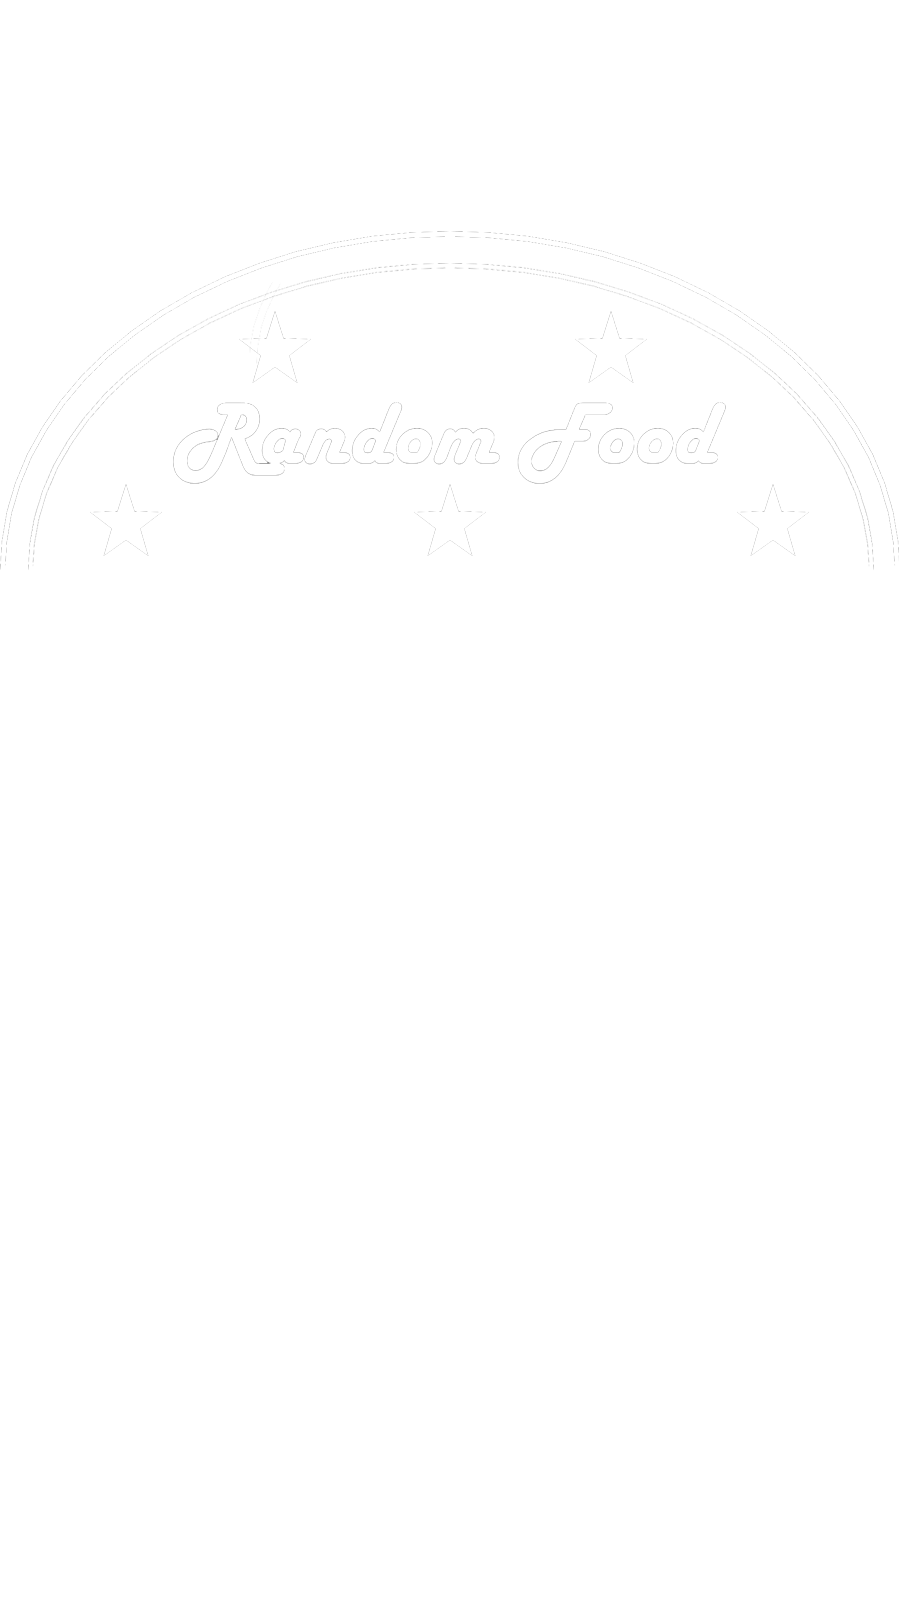
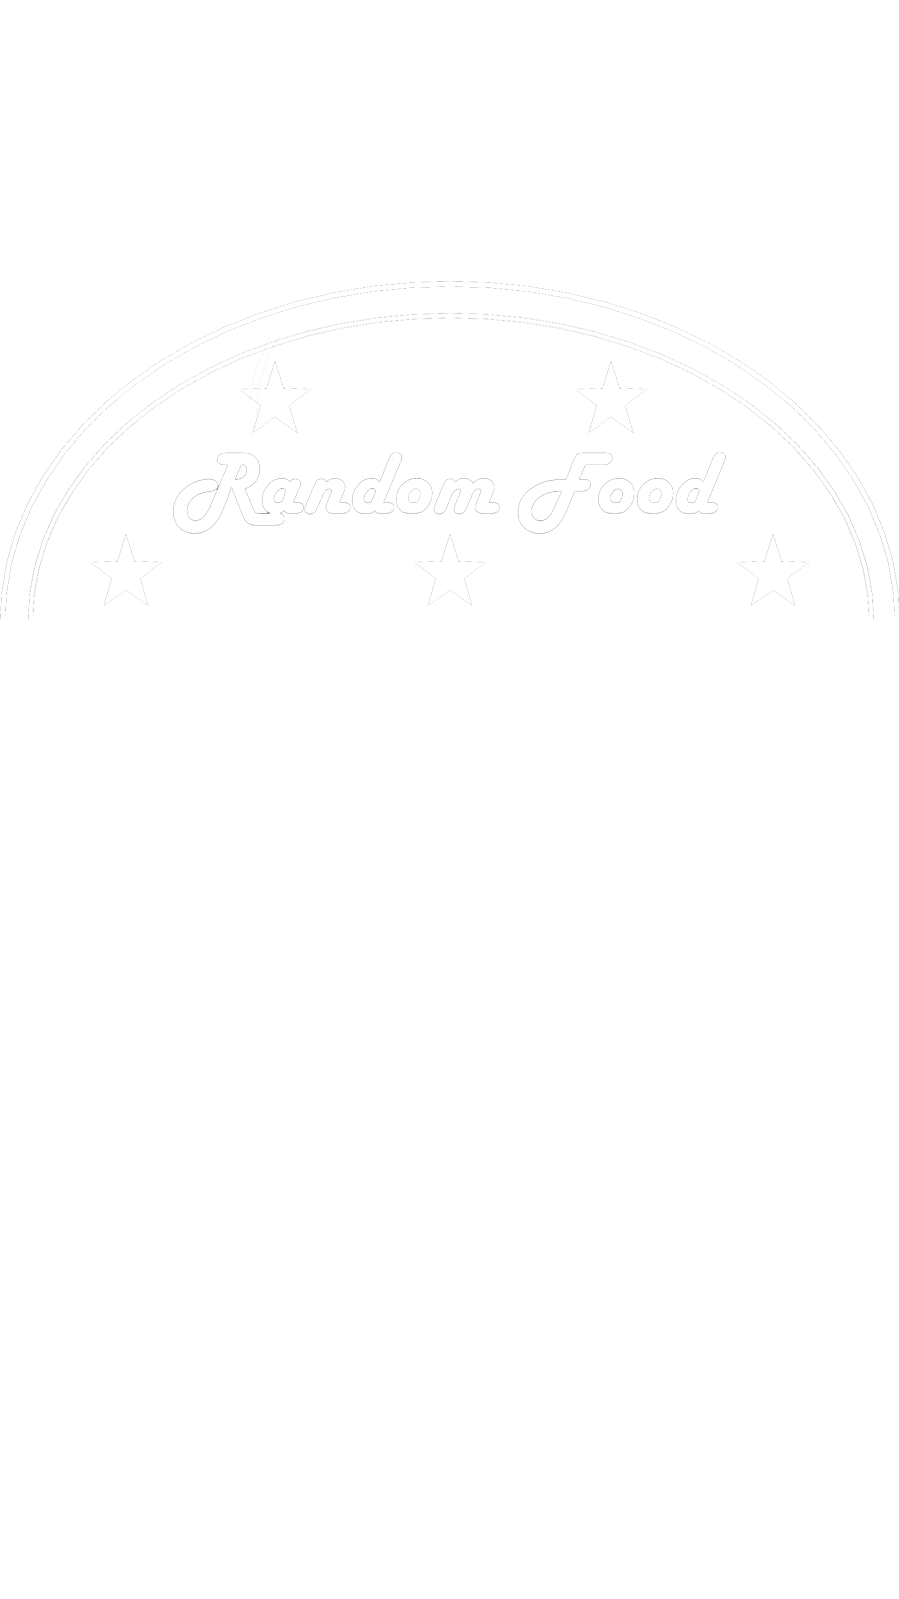
fixed styling more or less

diff --git a/components/randomPage.js b/components/randomPage.js
@@ -19,7 +19,9 @@ export default function RandomPage(props) {
     //            <Text style={styles.textField }>{props.randomFood}</Text>
     return (
         <View style={styles.container}>
-            
+            <View style={styles.slotContainer}>
+                
+            </View>
             <View style={styles.picContainer}>
                 <Image
                     style={styles.pic}
@@ -29,13 +31,10 @@ export default function RandomPage(props) {
                 <ReelSet style={styles.reelSet} ref = {(ref) => setReelSet(ref)} key={props.multipleArrs} multipleArrs = {props.multipleArrs} foodArr={props.foodArr} buttonSet={buttonSet} selectedCategory = {props.selectedCategory}></ReelSet>
             </View>
             <Image
-                style={styles.pic2}
-                source={require('../assets/linie.png')}
-            />
-            <Image
-                style={styles.pic2}
-                source={require('../assets/slotmachine.png')}
-            />
+                    style={styles.pic2}
+                    source={require('../assets/fullslot.png')}
+                />
+            <View style={styles.pickerContainer}>
             <Picker
                 style={styles.picker}
                 selectedValue={props.selectedCategory}
@@ -55,11 +54,14 @@ export default function RandomPage(props) {
                 
                 
             </Picker>
-            <TouchableOpacity style={styles.randomButton} onPress={()=> {buttonSet(); reelSet.spin()}} disabled={disableButton}>
-            <View style={styles.inner} >
-                <Text style={({color:'white'})}>SPIN!</Text>            
             </View>
-            </TouchableOpacity>
+            <View style={styles.buttonContainer}>
+                <TouchableOpacity style={styles.randomButton} onPress={()=> {buttonSet(); reelSet.spin()}} disabled={disableButton}>
+                    <View style={styles.inner} >
+                        <Text style={({color:'white'})}>SPIN!</Text>            
+                    </View>
+                </TouchableOpacity>
+            </View>
             <StatusBar 
                 style="light"
                 backgroundColor="black"
@@ -75,23 +77,22 @@ const styles = StyleSheet.create({
       alignItems: 'center',
       justifyContent: 'center',
     },
-    reelSet: {
+    slotContainer: {
+        
+        
+    }, 
+    buttonContainer: {
        
-    },
-    textField: {
-        fontSize: 40,
-        color:'white',
-        backgroundColor: 'grey',
-        marginBottom:20,
-        marginTop:50,
-        padding:50
-    },
+    }, 
+    picContainer: {
+       
+    }, 
     randomButton: {
         backgroundColor:"green",
         borderRadius: 100,
         height:100,
         width:100, 
-        marginBottom:-630,
+        //marginBottom:-630,
         color:'white',
         padding:20,
         justifyContent: 'center',
@@ -116,25 +117,29 @@ const styles = StyleSheet.create({
        
         fontSize: 12,
        
-        marginTop:-200,
+        //marginTop:-200,
         height: 50
 
     },
     pic: {
         height: '10%',
         width: '10%',
-        marginTop:73
+       
      },
      pic2: {
-        height: '80%',
+        
+        height: '100%',
         width: '100%',
-        marginTop:-590
+        position: 'absolute',
+        //marginTop:-590
      },
      picContainer: {
-        
-        borderWidth: 1,
-        borderColor: 'white',
-        position: 'absolute',
+        marginTop: 100,
+        //borderWidth: 1,
+        //borderColor: 'white',
+        //position: 'absolute',
+        justifyContent: 'center',
+        alignItems: 'center',
         flexDirection: "row",
      }
   });

diff --git a/components/Homecomp.js b/components/Homecomp.js
@@ -39,7 +39,7 @@ export default function Homecomp(props) {
             
             let multipleArrss = []
 
-            for (let index = 0; index <8; index++) {
+            for (let index = 0; index <5; index++) {
             
                 arrprep.map((s)=> multipleArrss.push(s) ) 
             }
